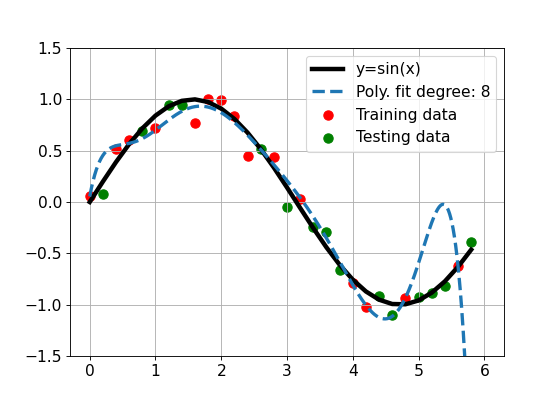
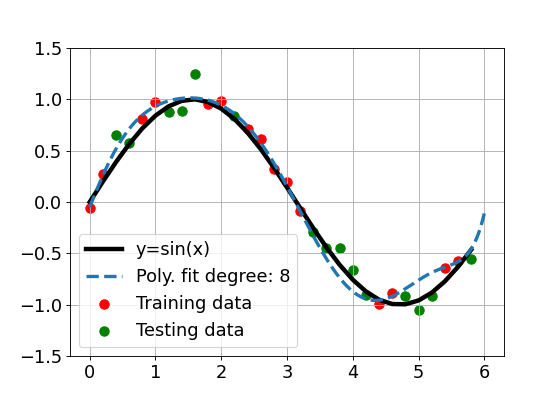
Added plot sh illustrating the error function

diff --git a/ml_example.py b/ml_example.py
@@ -7,7 +7,7 @@ import random
 if __name__ == "__main__":
     print("ML example")
     # set font size
-    font = {'size'   : 14}
+    font = {'size'   : 16}
 
     plt.rc('font', **font)
     
@@ -28,8 +28,8 @@ if __name__ == "__main__":
     tr_data = data[:15]
     ts_data = data[15:]
 
-    plt.plot(time, sine, color='black', linewidth=4)
-    plt.scatter(time, noisy_sine, s=70)
+    plt.plot(time, sine, color='black', linewidth=5)
+    plt.scatter(time, noisy_sine, s=90)
 
     plt.legend(["y=sin(x)", "Complete data set"])
     plt.savefig('figures/ML/pure.png')
@@ -52,8 +52,26 @@ if __name__ == "__main__":
     # polynomial regression
     # get training data
     x,y = zip(*tr_data)
-    
     model_line = np.arange(0,6,0.001)
+
+    # make error function plot
+    figure(num=None, figsize=(7, 5), dpi=80, facecolor='w', edgecolor='k')
+    plt.title("")
+    plt.xlabel("")
+    plt.ylabel("")
+    #plt.xscale('log')
+    plt.grid(True)
+    plt.ylim([-1.5, 1.5])
+
+    x_ts,y_ts = zip(*ts_data)
+    
+    model = np.poly1d(np.polyfit(x,y,1)) 
+    plt.plot(model_line, model(model_line), linestyle='--', linewidth=3)
+    plt.scatter(x_ts[:3], y_ts[:3], color='green', s=70)
+    
+    plt.legend(["Model", "Testing data"])
+    plt.savefig('figures/ML/error_function.png')
+
     for i in range(1,10):
         figure(num=None, figsize=(7, 5), dpi=80, facecolor='w', edgecolor='k')
         plt.title("")
